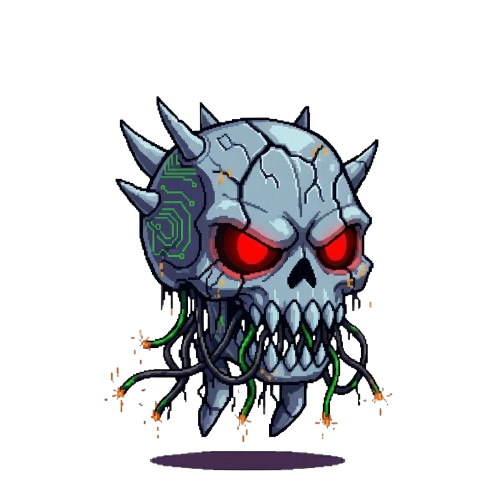
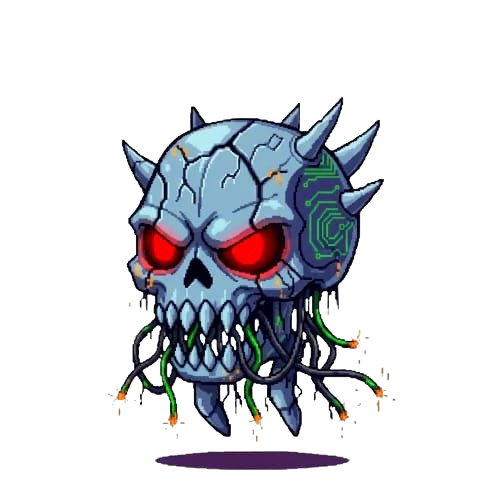
añadir animaciones

Changed region(s): [[0.21, 0.1804, 0.78, 0.8717], [0.3, 0.9018, 0.69, 0.9619]]

diff --git a/lib/main.dart b/lib/main.dart
@@ -1697,12 +1697,12 @@ class MyGame extends FlameGame with HasCollisionDetection {
       enemiesSpawnedInCurrentWave = 0,
       enemiesRemainingInCurrentWave = 0;
 
-  late List<Sprite> enemySprites;
+  late List<SpriteAnimation> enemyAnimations;
   late Sprite baseSprite,
       baseDamagedSprite,
       baseDestroyedSprite,
-      playerUnitSprite,
-      bossSprite;
+      playerUnitSprite;
+  late SpriteAnimation bossAnimation;
   final Random _random = Random();
   late Map<String, UpgradeButton> upgradeButtons;
 
@@ -1762,39 +1762,122 @@ class MyGame extends FlameGame with HasCollisionDetection {
     final bg = await loadSprite(mapPath);
     add(SpriteComponent(sprite: bg, size: size));
 
-    enemySprites = await Future.wait([
-      loadSprite('enemies/malware.png'),
-      loadSprite('enemies/gusano.png'),
-    ]);
-    bossSprite = await loadSprite('boss/ADWARE.png');
+    // Cargar sprite estático del malware con efecto de levitación
+    final malwareSprite = await loadSprite('enemies/malware.png');
+    final malwareAnimation = SpriteAnimation.spriteList(
+      [malwareSprite],
+      stepTime: 1.0,
+      loop: true,
+    );
+
+    // Cargar sprite sheet animado del gusano (usar las primeras 2 filas: 6 frames)
+    final gusanoImage = await images.load('enemies/gusanoSprite.png');
+    final gusanoFrameWidthInt = (gusanoImage.width / 3).floor();
+    final gusanoFrameHeightInt = (gusanoImage.height / 3).floor();
+    final gusanoFrameWidth = gusanoFrameWidthInt.toDouble();
+    final gusanoFrameHeight = gusanoFrameHeightInt.toDouble();
+
+    final gusanoFrames = <Sprite>[];
+    // Usar las primeras 2 filas (6 frames)
+    for (int row = 0; row < 2; row++) {
+      for (int col = 0; col < 3; col++) {
+        gusanoFrames.add(
+          Sprite(
+            gusanoImage,
+            srcPosition: Vector2(
+              col * gusanoFrameWidth,
+              row * gusanoFrameHeight + 8,
+            ), // +8 en Y para cortar más arriba
+            srcSize: Vector2(
+              gusanoFrameWidth - 8,
+              gusanoFrameHeight,
+            ), // Altura normal para incluir más abajo
+          ),
+        );
+      }
+    }
+
+    final gusanoAnimation = SpriteAnimation.spriteList(
+      gusanoFrames,
+      stepTime: 0.13,
+      loop: true,
+    );
+
+    enemyAnimations = [malwareAnimation, gusanoAnimation];
+
+    // Cargar sprite sheet animado del boss (solo usar la primera fila de 4 frames)
+    final bossImage = await images.load('boss/ADWAREsprite.png');
+    final frameWidth = bossImage.width / 4;
+    final frameHeight = bossImage.height / 2;
+
+    // Crear solo los 4 sprites de la primera fila para evitar el rebote
+    final bossFrames = <Sprite>[];
+    for (int col = 0; col < 4; col++) {
+      bossFrames.add(
+        Sprite(
+          bossImage,
+          srcPosition: Vector2(col * frameWidth, 0),
+          srcSize: Vector2(frameWidth, frameHeight),
+        ),
+      );
+    }
+
+    bossAnimation = SpriteAnimation.spriteList(
+      bossFrames,
+      stepTime: 0.2,
+      loop: true,
+    );
 
     try {
       // Usar skins equipadas del DataManager
-      final towerSkin =
-          dataManager.getEquippedSkin('tower') ?? 'base/torres/torre.png';
       final allySkin =
           dataManager.getEquippedSkin('ally') ?? 'base/aliados/AI.png';
 
-      // Cargar sprites de la torre en diferentes estados
-      // Obtener el nombre base de la torre sin extensión
-      final towerBaseName = towerSkin.replaceAll('.png', '');
+      // Cargar sprite sheet de la torre (3 frames horizontales: normal, dañada, destruida)
+      final spriteSheetImage = await images.load(
+        'base/torres/torreSpriteSheet.png',
+      );
 
-      baseSprite = await loadSprite('$towerBaseName.png');
-      baseDamagedSprite = await loadSprite('base/torres/torreDañada.png');
-      baseDestroyedSprite = await loadSprite('base/torres/torreDestruida.png');
+      // Calcular el ancho exacto de cada frame usando enteros
+      final totalWidth = spriteSheetImage.width;
+      final frameWidthInt = (totalWidth / 3).floor();
+      final frameWidth = frameWidthInt.toDouble();
+      final frameHeight = spriteSheetImage.height.toDouble();
+
+      // Crear sprites manualmente especificando las posiciones exactas
+      baseSprite = Sprite(
+        spriteSheetImage,
+        srcPosition: Vector2(0, 0),
+        srcSize: Vector2(
+          frameWidth - 13,
+          frameHeight,
+        ), // Restar 13 píxeles para eliminar línea extra
+      );
+
+      baseDamagedSprite = Sprite(
+        spriteSheetImage,
+        srcPosition: Vector2(frameWidthInt.toDouble(), 0),
+        srcSize: Vector2(frameWidth - 13, frameHeight),
+      );
+
+      baseDestroyedSprite = Sprite(
+        spriteSheetImage,
+        srcPosition: Vector2((frameWidthInt * 2).toDouble(), 0),
+        srcSize: Vector2(frameWidth - 13, frameHeight),
+      );
 
       playerUnitSprite = await loadSprite(allySkin);
     } catch (e) {
-      baseSprite = enemySprites[0];
-      baseDamagedSprite = enemySprites[0];
-      baseDestroyedSprite = enemySprites[0];
-      playerUnitSprite = enemySprites[1];
+      // Usar frame estático como fallback
+      final fallbackSprite = enemyAnimations[0].frames[0].sprite;
+      baseSprite = fallbackSprite;
+      baseDamagedSprite = fallbackSprite;
+      baseDestroyedSprite = fallbackSprite;
+      playerUnitSprite = enemyAnimations[1].frames[0].sprite;
     }
 
     playerBase = Base(
-      normalSprite: baseSprite,
-      damagedSprite: baseDamagedSprite,
-      destroyedSprite: baseDestroyedSprite,
+      towerSprites: [baseSprite, baseDamagedSprite, baseDestroyedSprite],
       position: Vector2(100, size.y - 300),
       size: Vector2(100, 200),
       health: baseMaxHealth,
@@ -2045,8 +2128,9 @@ class MyGame extends FlameGame with HasCollisionDetection {
 
   void spawnHordeEnemy() {
     final enemyHealth = 30.0 + (currentWaveNumber * currentWaveNumber * 8);
+    final enemyType = _random.nextInt(enemyAnimations.length);
     final enemy = Enemy(
-      sprite: enemySprites[_random.nextInt(enemySprites.length)],
+      animation: enemyAnimations[enemyType],
       position: Vector2(
         size.x + 25 + _random.nextDouble() * 100,
         size.y * 0.4 + _random.nextDouble() * 150,
@@ -2056,6 +2140,7 @@ class MyGame extends FlameGame with HasCollisionDetection {
       speed: 30 + _random.nextDouble() * 15,
       damage: 10,
       goldValue: (10 + (currentWaveNumber * currentWaveNumber * 2)).toDouble(),
+      shouldFloat: enemyType == 0, // Solo el malware (índice 0) levita
     );
     add(enemy);
   }
@@ -2066,7 +2151,7 @@ class MyGame extends FlameGame with HasCollisionDetection {
     gameStatusText.text = 'Defeat the Boss!';
     final bossHealth = baseBossHealth * (1 + (baseHealthLevel * 0.25));
     currentBoss = Boss(
-      sprite: bossSprite,
+      animation: bossAnimation,
       position: Vector2(size.x - 300, size.y / 2 - 100),
       size: Vector2(200, 200),
       health: bossHealth,
@@ -2090,8 +2175,9 @@ class MyGame extends FlameGame with HasCollisionDetection {
   void spawnEnemy() {
     if (enemiesSpawnedInCurrentWave < enemiesToSpawnInCurrentWave) {
       final enemyHealth = 30.0 + (currentWaveNumber * currentWaveNumber * 8);
+      final enemyType = _random.nextInt(enemyAnimations.length);
       final enemy = Enemy(
-        sprite: enemySprites[_random.nextInt(enemySprites.length)],
+        animation: enemyAnimations[enemyType],
         position: Vector2(
           size.x + 25,
           size.y * 0.5 + _random.nextDouble() * 100 - 25,
@@ -2102,6 +2188,7 @@ class MyGame extends FlameGame with HasCollisionDetection {
         damage: 10,
         goldValue: (10 + (currentWaveNumber * currentWaveNumber * 2))
             .toDouble(),
+        shouldFloat: enemyType == 0, // Solo el malware (índice 0) levita
       );
       add(enemy);
       enemiesSpawnedInCurrentWave++;

diff --git a/lib/components/base.dart b/lib/components/base.dart
@@ -9,23 +9,19 @@ class Base extends PositionComponent with CollisionCallbacks {
   late HealthBar healthBar;
   final VoidCallback? onBaseDestroyed; // Declared as an instance field
 
-  // Sprites para diferentes estados de la torre
-  final Sprite normalSprite;
-  final Sprite damagedSprite;
-  final Sprite destroyedSprite;
+  // Sprite sheet con las 3 fases de la torre
+  final List<Sprite> towerSprites; // [0: normal, 1: dañada, 2: destruida]
   late SpriteComponent spriteComponent;
 
   Base({
-    required this.normalSprite,
-    required this.damagedSprite,
-    required this.destroyedSprite,
+    required this.towerSprites,
     super.position,
     super.size,
     required this.health,
     required this.maxHealth,
     this.onBaseDestroyed,
   }) {
-    spriteComponent = SpriteComponent(sprite: normalSprite, size: size);
+    spriteComponent = SpriteComponent(sprite: towerSprites[0], size: size);
     add(spriteComponent); // Add SpriteComponent as child
     // Add a hitbox so enemies can collide with the base
     add(RectangleHitbox());
@@ -45,22 +41,21 @@ class Base extends PositionComponent with CollisionCallbacks {
 
     // Cambiar sprite según el porcentaje de vida
     final healthPercentage = health / maxHealth;
+    Sprite targetSprite;
 
     if (healthPercentage <= 0.4) {
-      // Menos del 40% de vida - torre destruida
-      if (spriteComponent.sprite != destroyedSprite) {
-        spriteComponent.sprite = destroyedSprite;
-      }
+      // Menos del 40% de vida - torre destruida (frame 2)
+      targetSprite = towerSprites[2];
     } else if (healthPercentage <= 0.7) {
-      // Entre 40% y 70% de vida - torre dañada
-      if (spriteComponent.sprite != damagedSprite) {
-        spriteComponent.sprite = damagedSprite;
-      }
+      // Entre 40% y 70% de vida - torre dañada (frame 1)
+      targetSprite = towerSprites[1];
     } else {
-      // Más del 70% de vida - torre normal
-      if (spriteComponent.sprite != normalSprite) {
-        spriteComponent.sprite = normalSprite;
-      }
+      // Más del 70% de vida - torre normal (frame 0)
+      targetSprite = towerSprites[0];
+    }
+
+    if (spriteComponent.sprite != targetSprite) {
+      spriteComponent.sprite = targetSprite;
     }
   }
 

diff --git a/lib/components/enemy.dart b/lib/components/enemy.dart
@@ -1,3 +1,4 @@
+import 'dart:math' as math;
 import 'package:flame/components.dart';
 import 'package:flame/collisions.dart';
 import 'package:iadenfender/main.dart'; // Import MyGame to access its properties
@@ -19,19 +20,29 @@ class Enemy extends PositionComponent
   Barricade? _targetBarricade;
   late HealthBar healthBar;
 
+  // Variables para el efecto de levitación
+  double _floatTimer = 0.0;
+  final double _floatSpeed = 2.0; // Velocidad de la levitación
+  final double _floatAmplitude = 8.0; // Qué tan alto sube/baja (en píxeles)
+  final bool shouldFloat; // Determina si este enemigo debe levitar
+  late SpriteAnimationComponent _spriteComponent;
+
   Enemy({
-    required Sprite sprite, // Now required
+    required SpriteAnimation animation, // Now uses animation
     super.position,
     super.size,
     required this.health,
     required this.speed,
     required this.damage,
     required this.goldValue,
+    this.shouldFloat = false, // Por defecto no levita
   }) : maxHealth = health {
     // Initialize maxHealth
-    add(
-      SpriteComponent(sprite: sprite, size: size),
-    ); // Add SpriteComponent as child
+    _spriteComponent = SpriteAnimationComponent(
+      animation: animation,
+      size: size,
+    );
+    add(_spriteComponent); // Add SpriteAnimationComponent as child
     add(RectangleHitbox()); // Add a hitbox for collision detection
     healthBar = HealthBar(
       currentHealth: health,
@@ -46,6 +57,14 @@ class Enemy extends PositionComponent
   @override
   void update(double dt) {
     super.update(dt);
+
+    // Efecto de levitación (sin mover hitbox, solo el sprite)
+    if (shouldFloat) {
+      _floatTimer += dt * _floatSpeed;
+      final floatOffset = math.sin(_floatTimer) * _floatAmplitude;
+      _spriteComponent.position.y = floatOffset;
+    }
+
     if (!_isAttacking) {
       x -= speed * dt; // Move enemy to the left
     } else {

diff --git a/lib/components/boss.dart b/lib/components/boss.dart
@@ -20,12 +20,12 @@ class Boss extends PositionComponent
   bool isColliding = false; // Para detener movimiento al colisionar
 
   Boss({
-    required Sprite sprite,
+    required SpriteAnimation animation,
     super.position,
     super.size,
     required this.health,
   }) : maxHealth = health {
-    add(SpriteComponent(sprite: sprite, size: size));
+    add(SpriteAnimationComponent(animation: animation, size: size));
     // Hitbox sólido que cubre todo el sprite del boss
     add(RectangleHitbox(size: size, position: Vector2.zero()));
     healthBar = HealthBar(
